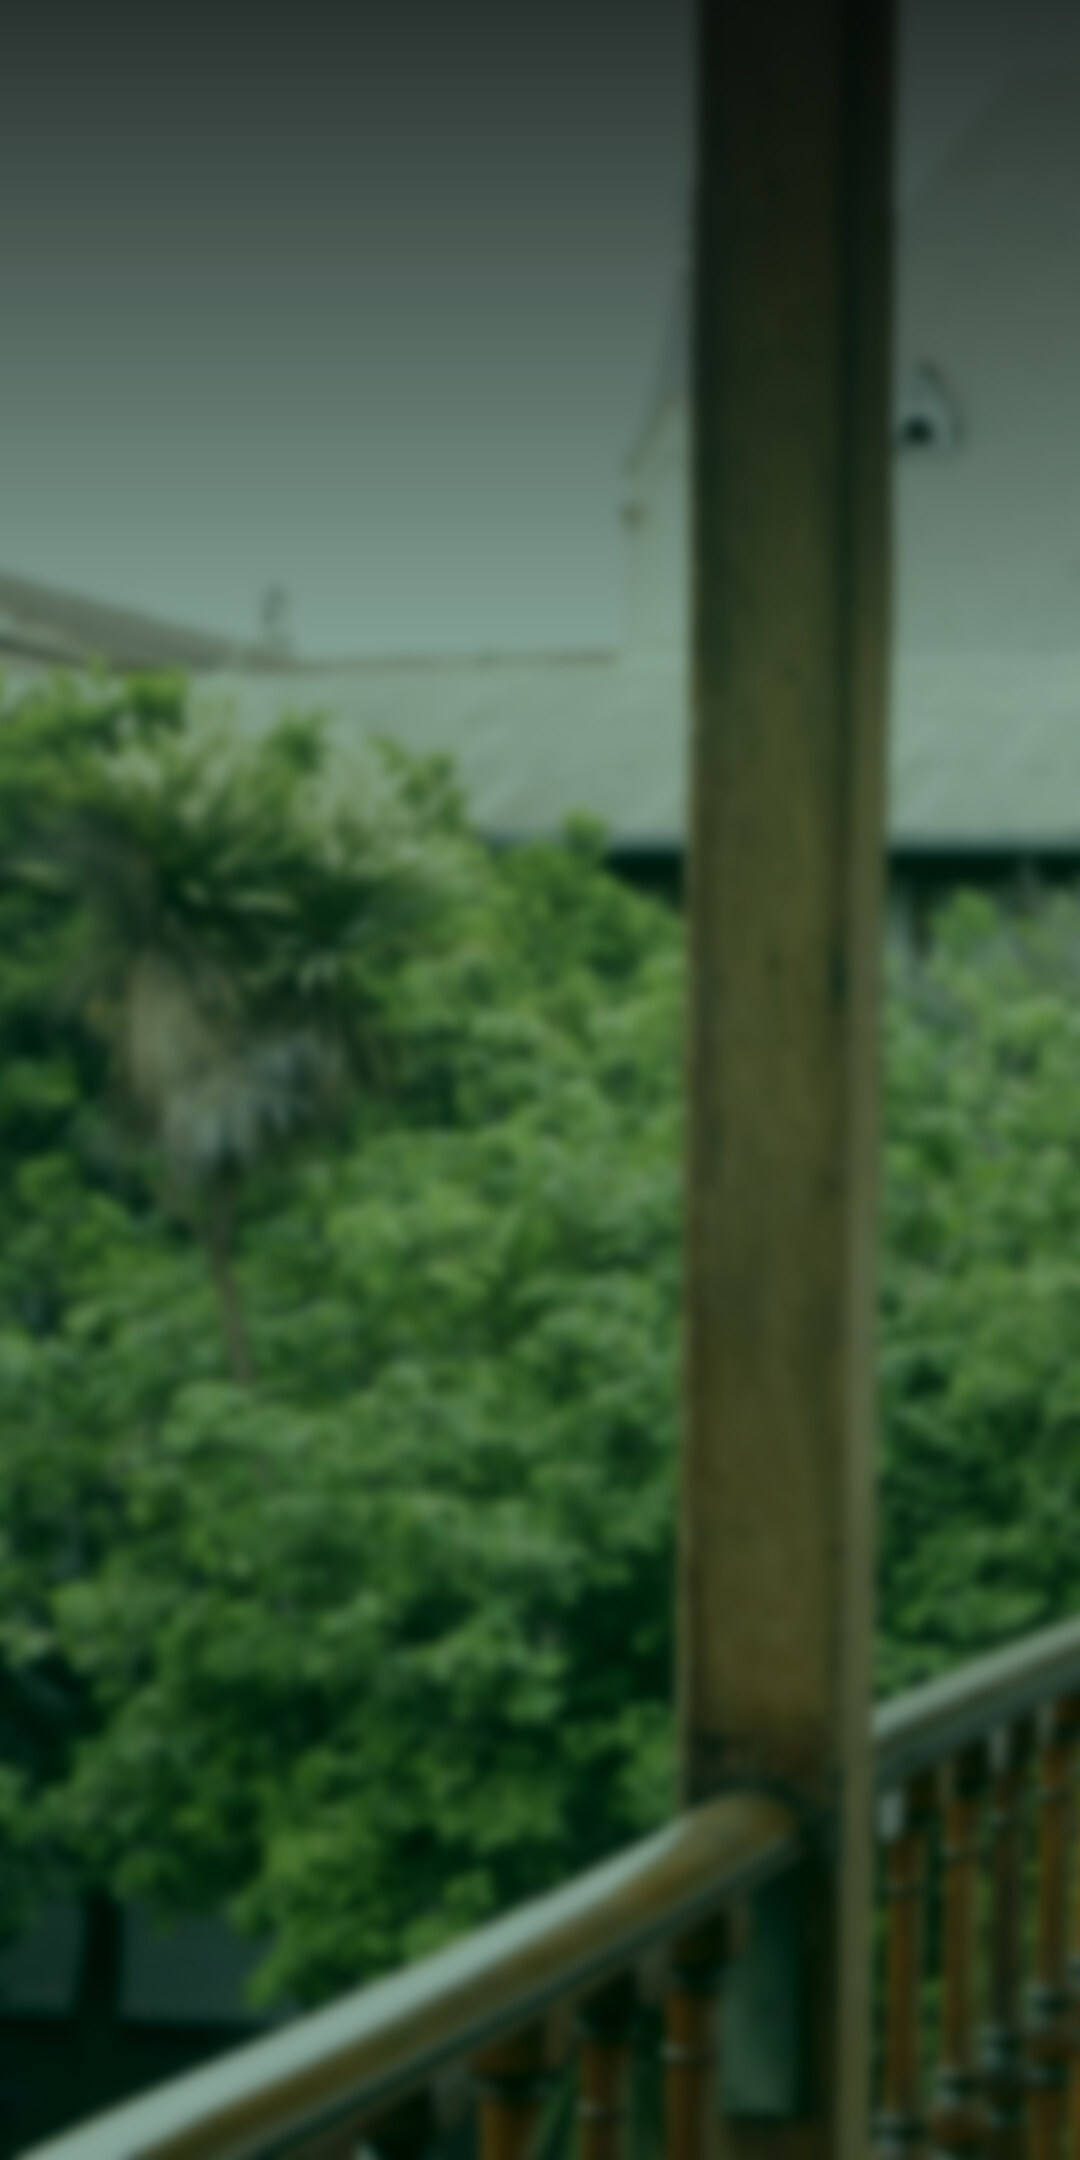
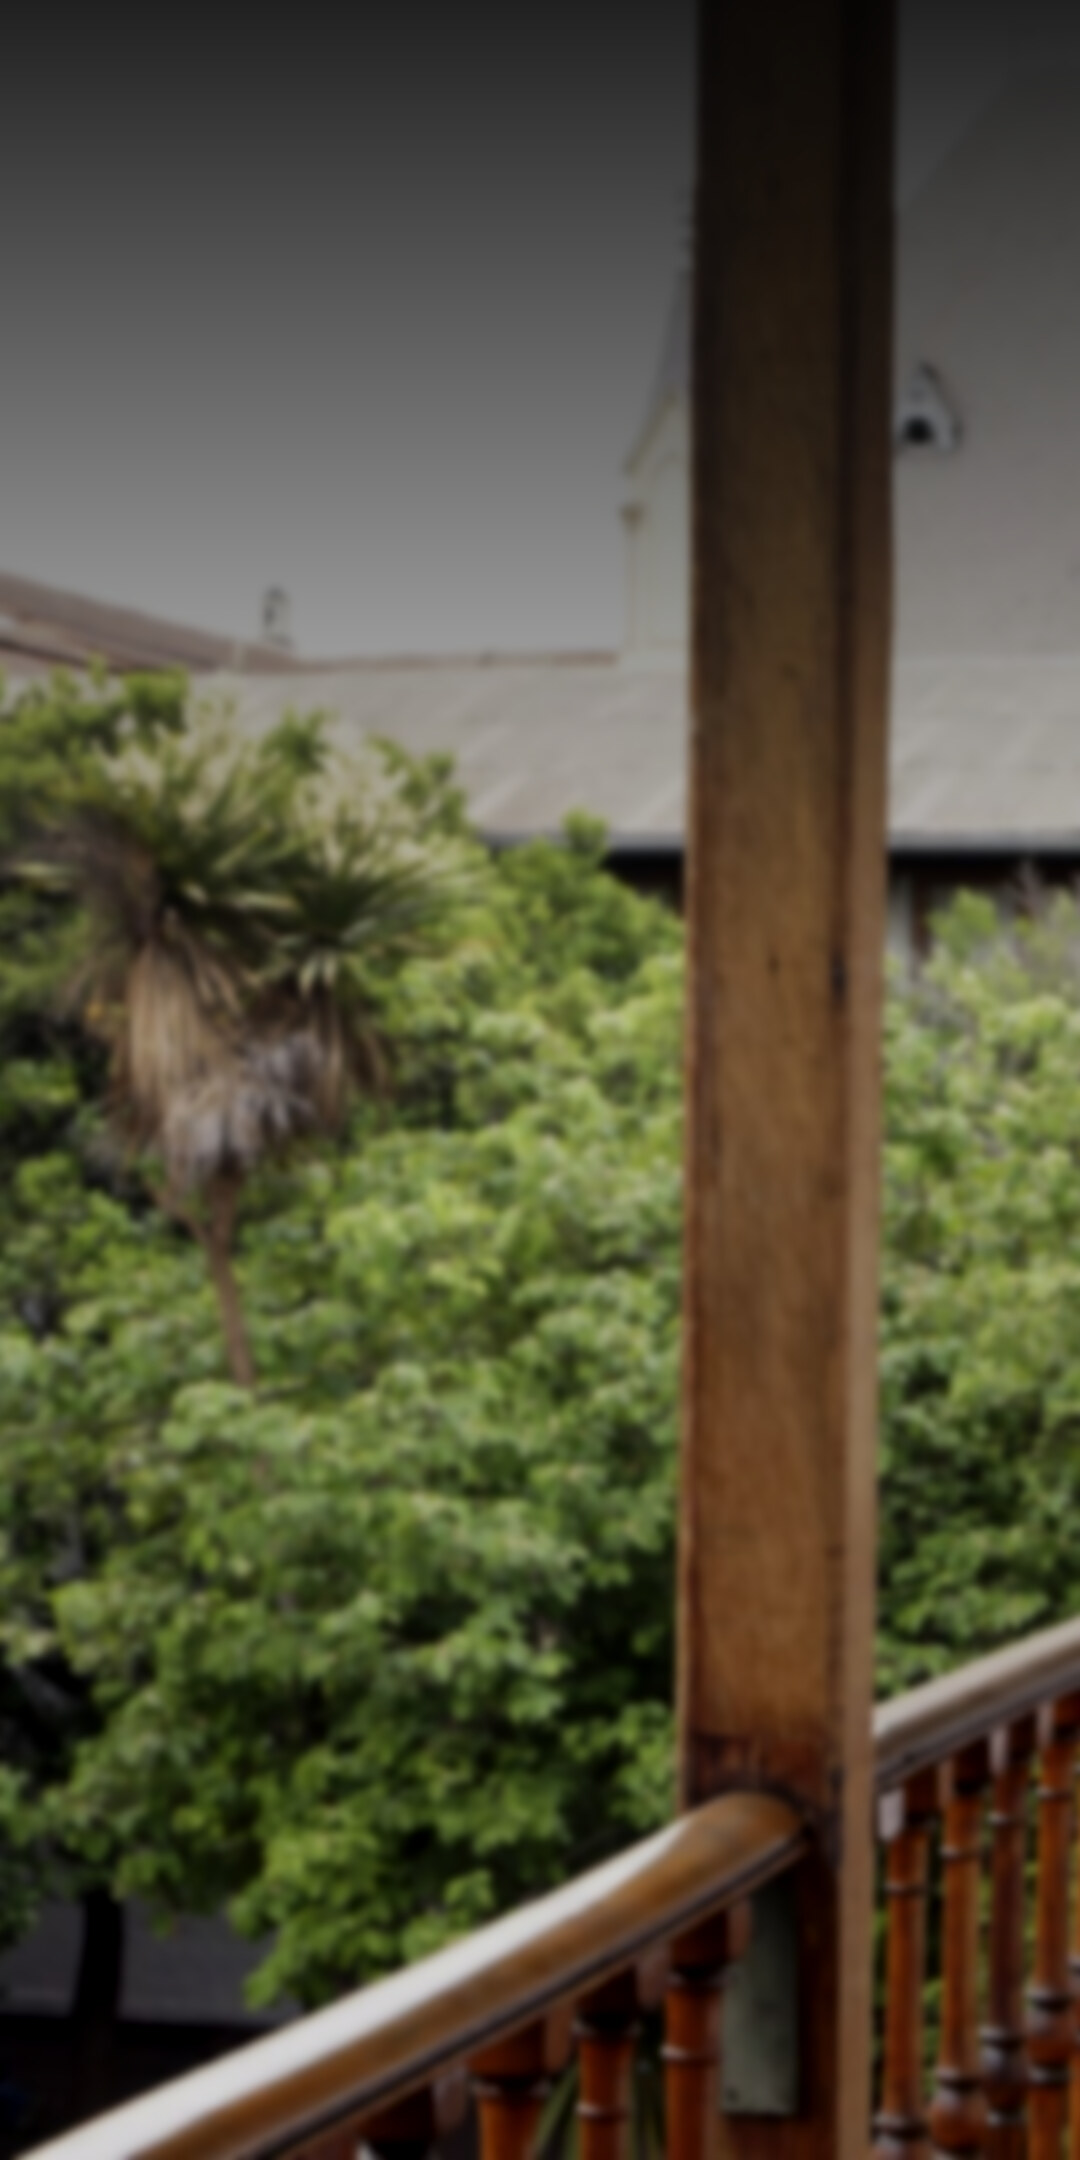
patch: capturas de pantalla play store y app store
* Se actualiza fondo de las capturas para no tener el verde opaco
* Se modifican pantallas a mostrar en las capturas
* Se agrega pantalla de splash para las capturas 1 y 2
* Se agrega script para generar celular inclinado

diff --git a/integration_test/screenshots_test.dart b/integration_test/screenshots_test.dart
@@ -1,5 +1,6 @@
 import "dart:io";
 
+import "package:adaptive_theme/adaptive_theme.dart";
 import "package:flutter/material.dart";
 import "package:flutter_test/flutter_test.dart";
 import "package:integration_test/integration_test.dart";
@@ -21,7 +22,10 @@ const bool esProduccion = bool.fromEnvironment("SCREENSHOT_PROD", defaultValue: 
 void main() {
   final binding = IntegrationTestWidgetsFlutterBinding.ensureInitialized();
 
-  testWidgets("Captura las pantallas de la app para la App Store", (tester) async {
+  // Las capturas 01 y 02 no salen de la app: son la composición del teléfono en diagonal
+  // que arma `scripts/compose-store-screenshots`. Por eso el recorrido parte en la 03,
+  // y los nombres llevan el número escrito: el orden del archivo es el orden en la tienda.
+  testWidgets("Captura las pantallas de la app para las tiendas", (tester) async {
     paso(binding, "inicio");
     runMainApp(esProduccion ? prod.DefaultFirebaseOptions.currentPlatform : dev.DefaultFirebaseOptions.currentPlatform);
 
@@ -38,10 +42,6 @@ void main() {
       paso(binding, "superficie convertida a imagen");
     }
 
-    // El video de fondo y el logo tardan en aparecer.
-    await esperar(tester, const Duration(seconds: 8));
-    await capturar(tester, binding, "login");
-
     final campos = find.byType(TextField);
     await tester.enterText(campos.at(0), usuario);
     await tester.enterText(campos.at(1), clave);
@@ -50,29 +50,37 @@ void main() {
 
     final destinos = find.byType(NavigationDestination);
     await esperarPor(tester, binding, destinos, descripcion: "la navegación principal");
-
-    // Las pestañas visibles dependen de los feature flags y del perfil, así que se recorren las que existan.
     final etiquetas = tester.widgetList<NavigationDestination>(destinos).map((destino) => destino.label).toList();
-    for (var i = 0; i < etiquetas.length; i++) {
-      await irAPestana(tester, i);
-      await capturar(tester, binding, etiquetas[i].toLowerCase());
-    }
 
-    // Horario y malla histórica cuelgan de los accesos rápidos de Asignaturas.
-    final idxAsignaturas = etiquetas.indexOf("Asignaturas");
-    if (idxAsignaturas < 0) {
-      paso(binding, "sin pestaña de asignaturas: se omiten horario y malla");
-      return;
-    }
+    // 03 — el inicio, pero en oscuro: es la novedad que se está mostrando.
+    await irAPestana(tester, indiceDe(etiquetas, "Inicio"));
+    await cambiarTema(tester, binding, AdaptiveThemeMode.dark);
+    await capturar(tester, binding, "03_oscuro");
+    await cambiarTema(tester, binding, AdaptiveThemeMode.light);
 
+    // 04 — la calculadora de notas, que cuelga de los accesos rápidos de Asignaturas.
+    final idxAsignaturas = indiceDe(etiquetas, "Asignaturas");
     await irAPestana(tester, idxAsignaturas);
-    for (final acceso in ["Horario", "Malla Histórica"]) {
+    await abrirAccesoRapido(tester, binding, "Notas");
+    await capturar(tester, binding, "04_calculadora");
+    await volver(tester);
+
+    // 05 — el inicio en claro, con la primera clase del día en curso.
+    await irAPestana(tester, indiceDe(etiquetas, "Inicio"));
+    await capturar(tester, binding, "05_inicio");
+
+    // 06 — la credencial con el código QR.
+    await irAPestana(tester, indiceDe(etiquetas, "Credencial"));
+    await capturar(tester, binding, "06_credencial");
+
+    // 07 y 08 — horario y malla histórica, también desde los accesos rápidos.
+    await irAPestana(tester, idxAsignaturas);
+    for (final (acceso, archivo) in [("Horario", "07_horario"), ("Malla Histórica", "08_malla")]) {
       await abrirAccesoRapido(tester, binding, acceso);
-      await capturar(tester, binding, acceso.split(" ").first.toLowerCase());
-      await tester.pageBack();
-      await esperar(tester, const Duration(seconds: 3));
+      await capturar(tester, binding, archivo);
+      await volver(tester);
     }
-  }, timeout: const Timeout(Duration(minutes: 12)));
+  }, timeout: const Timeout(Duration(minutes: 15)));
 }
 
 /// Deja rastro del avance en `reportData`, que el driver escribe en
@@ -85,15 +93,34 @@ void paso(IntegrationTestWidgetsFlutterBinding binding, String texto) {
 
 Finder get botonIngresar => find.widgetWithText(FilledButton, "Ingresar");
 
+/// Posición de una pestaña en la barra inferior. Las pestañas dependen de los feature
+/// flags y del perfil, así que se falla con nombre propio en vez de capturar otra cosa.
+int indiceDe(List<String> etiquetas, String etiqueta) {
+  final indice = etiquetas.indexOf(etiqueta);
+  if (indice < 0) {
+    fail("No está la pestaña \"$etiqueta\". Pestañas disponibles: ${etiquetas.join(", ")}.");
+  }
+
+  return indice;
+}
+
 Future<void> irAPestana(WidgetTester tester, int indice) async {
   await tester.tap(find.byType(NavigationDestination).at(indice));
   await esperar(tester, const Duration(seconds: 8));
 }
 
+/// Cambia el tema sin pasar por Perfil → Pantalla → Tema: el diálogo obliga a hacer
+/// scroll y a esperar animaciones, y acá sólo interesa con qué brillo se dibuja la app.
+Future<void> cambiarTema(WidgetTester tester, IntegrationTestWidgetsFlutterBinding binding, AdaptiveThemeMode modo) async {
+  AdaptiveTheme.of(tester.element(find.byType(NavigationBar))).setThemeMode(modo);
+  paso(binding, "tema $modo");
+  await esperar(tester, const Duration(seconds: 3));
+}
+
 /// Abre una pantalla desde las tarjetas de acceso rápido y espera a que cargue.
 ///
 /// La búsqueda se acota a la pantalla de asignaturas porque el `IndexedStack` de
-/// la navegación mantiene montado el inicio, que tiene un acceso rápido homónimo.
+/// la navegación mantiene montado el inicio, que tiene accesos rápidos homónimos.
 Future<void> abrirAccesoRapido(WidgetTester tester, IntegrationTestWidgetsFlutterBinding binding, String label) async {
   final tarjeta = find.descendant(of: find.byType(AsignaturasScreen), matching: find.text(label));
   if (tarjeta.evaluate().isEmpty) {
@@ -103,6 +130,11 @@ Future<void> abrirAccesoRapido(WidgetTester tester, IntegrationTestWidgetsFlutte
   paso(binding, "abriendo $label");
   await tester.tap(tarjeta.first);
   await esperar(tester, const Duration(seconds: 8));
+}
+
+Future<void> volver(WidgetTester tester) async {
+  await tester.pageBack();
+  await esperar(tester, const Duration(seconds: 3));
 }
 
 /// Bombea frames hasta que [finder] encuentre algo, o falla el test al agotar
@@ -138,17 +170,11 @@ Future<void> esperar(WidgetTester tester, Duration duracion) async {
   }
 }
 
-/// Número correlativo de la captura, para que el orden en App Store Connect
-/// sea el mismo del recorrido.
-var _capturas = 0;
-
 /// Quita el foco y espera a que el teclado se retraiga antes de capturar,
 /// porque el teclado del sistema no se captura y dejaría una franja en blanco.
-Future<void> capturar(WidgetTester tester, IntegrationTestWidgetsFlutterBinding binding, String nombre) async {
+Future<void> capturar(WidgetTester tester, IntegrationTestWidgetsFlutterBinding binding, String archivo) async {
   FocusManager.instance.primaryFocus?.unfocus();
   await esperar(tester, const Duration(seconds: 2));
-
-  final archivo = "${(++_capturas).toString().padLeft(2, "0")}_$nombre";
 
   // La captura nativa de iOS usa `drawViewHierarchyInRect:afterScreenUpdates:YES`, que espera
   // un frame nuevo. El binding de tests sólo dibuja cuando se le pide, así que hay que seguir

diff --git a/lib/screens/home/widgets/clases_de_hoy/card_clase.dart b/lib/screens/home/widgets/clases_de_hoy/card_clase.dart
@@ -60,7 +60,9 @@ class _CardClaseState extends State<CardClase> with WidgetsBindingObserver {
   }
 
   bool isCurrentClassActive() {
-    final now = DateTime.now();
+    // `ahora()` y no `DateTime.now()`: en modo capturas la hora está fijada, y con la
+    // hora real ninguna clase salía marcada como la que está en curso.
+    final now = ahora();
     final start = DateTime(now.year, now.month, now.day, int.parse(widget.horaInicio.split(":")[0]), int.parse(widget.horaInicio.split(":")[1]));
     final end = DateTime(now.year, now.month, now.day, int.parse(widget.horaFin.split(":")[0]), int.parse(widget.horaFin.split(":")[1]));
     return now.isAfter(start) && now.isBefore(end);
